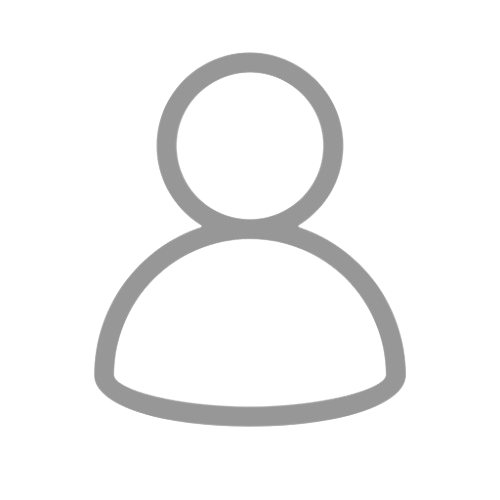
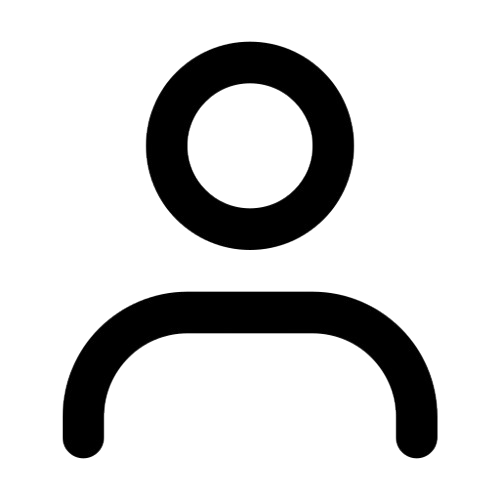
Settings

Changed region(s): [[0.12, 0.06, 0.9, 0.93]]

diff --git a/lib/home_screen.dart b/lib/home_screen.dart
@@ -12,6 +12,7 @@ class HomePage extends StatefulWidget {
 }
 
 class _HomePageState extends State<HomePage> {
+  final GlobalKey _settingsKey = GlobalKey();
   final TextEditingController textController = TextEditingController();
   final TextEditingController contextController = TextEditingController();
   final TextEditingController questionController = TextEditingController();
@@ -321,12 +322,12 @@ class _HomePageState extends State<HomePage> {
                           IconButton(
                             padding: EdgeInsets.zero,            
                             constraints: const BoxConstraints(), 
-                            iconSize: 32,
+                            iconSize: 38,
                             tooltip: "Sair",
                             icon: Image.asset(
                               'assets/signout.png',
-                              width: 32,
-                              height: 32,
+                              width: 38,
+                              height: 38,
                               color: textColor,
                             ),
                             onPressed: () async {
@@ -340,18 +341,61 @@ class _HomePageState extends State<HomePage> {
                           ),
                           const SizedBox(width: 6), 
                           IconButton(
+                            key: _settingsKey,
                             padding: EdgeInsets.zero,
                             constraints: const BoxConstraints(),
-                            iconSize: 32,
-                            tooltip: "Perfil",
+                            iconSize: 24,
+                            tooltip: "Settings",
                             icon: Image.asset(
-                              'assets/user.png',
-                              width: 32,
-                              height: 32,
+                              'assets/settings.png',
+                              width: 24,
+                              height: 24,
                               color: textColor,
                             ),
                             onPressed: () {
-                              print("Perfil clicado");
+                              final RenderBox renderBox = _settingsKey.currentContext!.findRenderObject() as RenderBox;
+                              final Offset offset = renderBox.localToGlobal(Offset.zero);
+                              final Size size = renderBox.size;
+
+                              showMenu(
+                                context: context,
+                                position: RelativeRect.fromLTRB(offset.dx, offset.dy + size.height, offset.dx+1, 0),
+                                items : [
+                                  PopupMenuItem(child: Row(
+                                    children: [
+                                      Image.asset('assets/user.png', width: 18, height: 18),
+                                      const SizedBox(width: 10),
+                                      const Text("Perfil"),
+                                    ],
+                                  ),
+                                  onTap: () {
+                                    print("Perfil");
+                                  },
+                                  ),
+                                  PopupMenuItem(child: Row(
+                                    children: [
+                                      Image.asset('assets/help.png', width: 18, height: 18),
+                                      const SizedBox(width: 10),
+                                      const Text("Help"),
+                                    ],
+                                  ),
+                                  onTap: () {
+                                    print("Help");
+                                  },
+                                  ),
+                                  PopupMenuItem(child: Row(
+                                    children: [
+                                      Image.asset('assets/dev.png', width: 18, height: 18),
+                                      const SizedBox(width: 10),
+                                      const Text("Desenvolvedor"),
+                                    ],
+                                  ),
+                                  onTap: () {
+                                    print("Contato");
+                                  },
+                                  ),
+                                ],
+                              );
                             },
                           ),
                         ],
@@ -403,8 +447,8 @@ class _HomePageState extends State<HomePage> {
                           tooltip: "Idioma",
                           icon: Image.asset(
                             'assets/translate.png',
-                            width: 32,
-                            height: 32,
+                            width: 38,
+                            height: 38,
                             color: textColor,
                           ),
                           onPressed: () {
